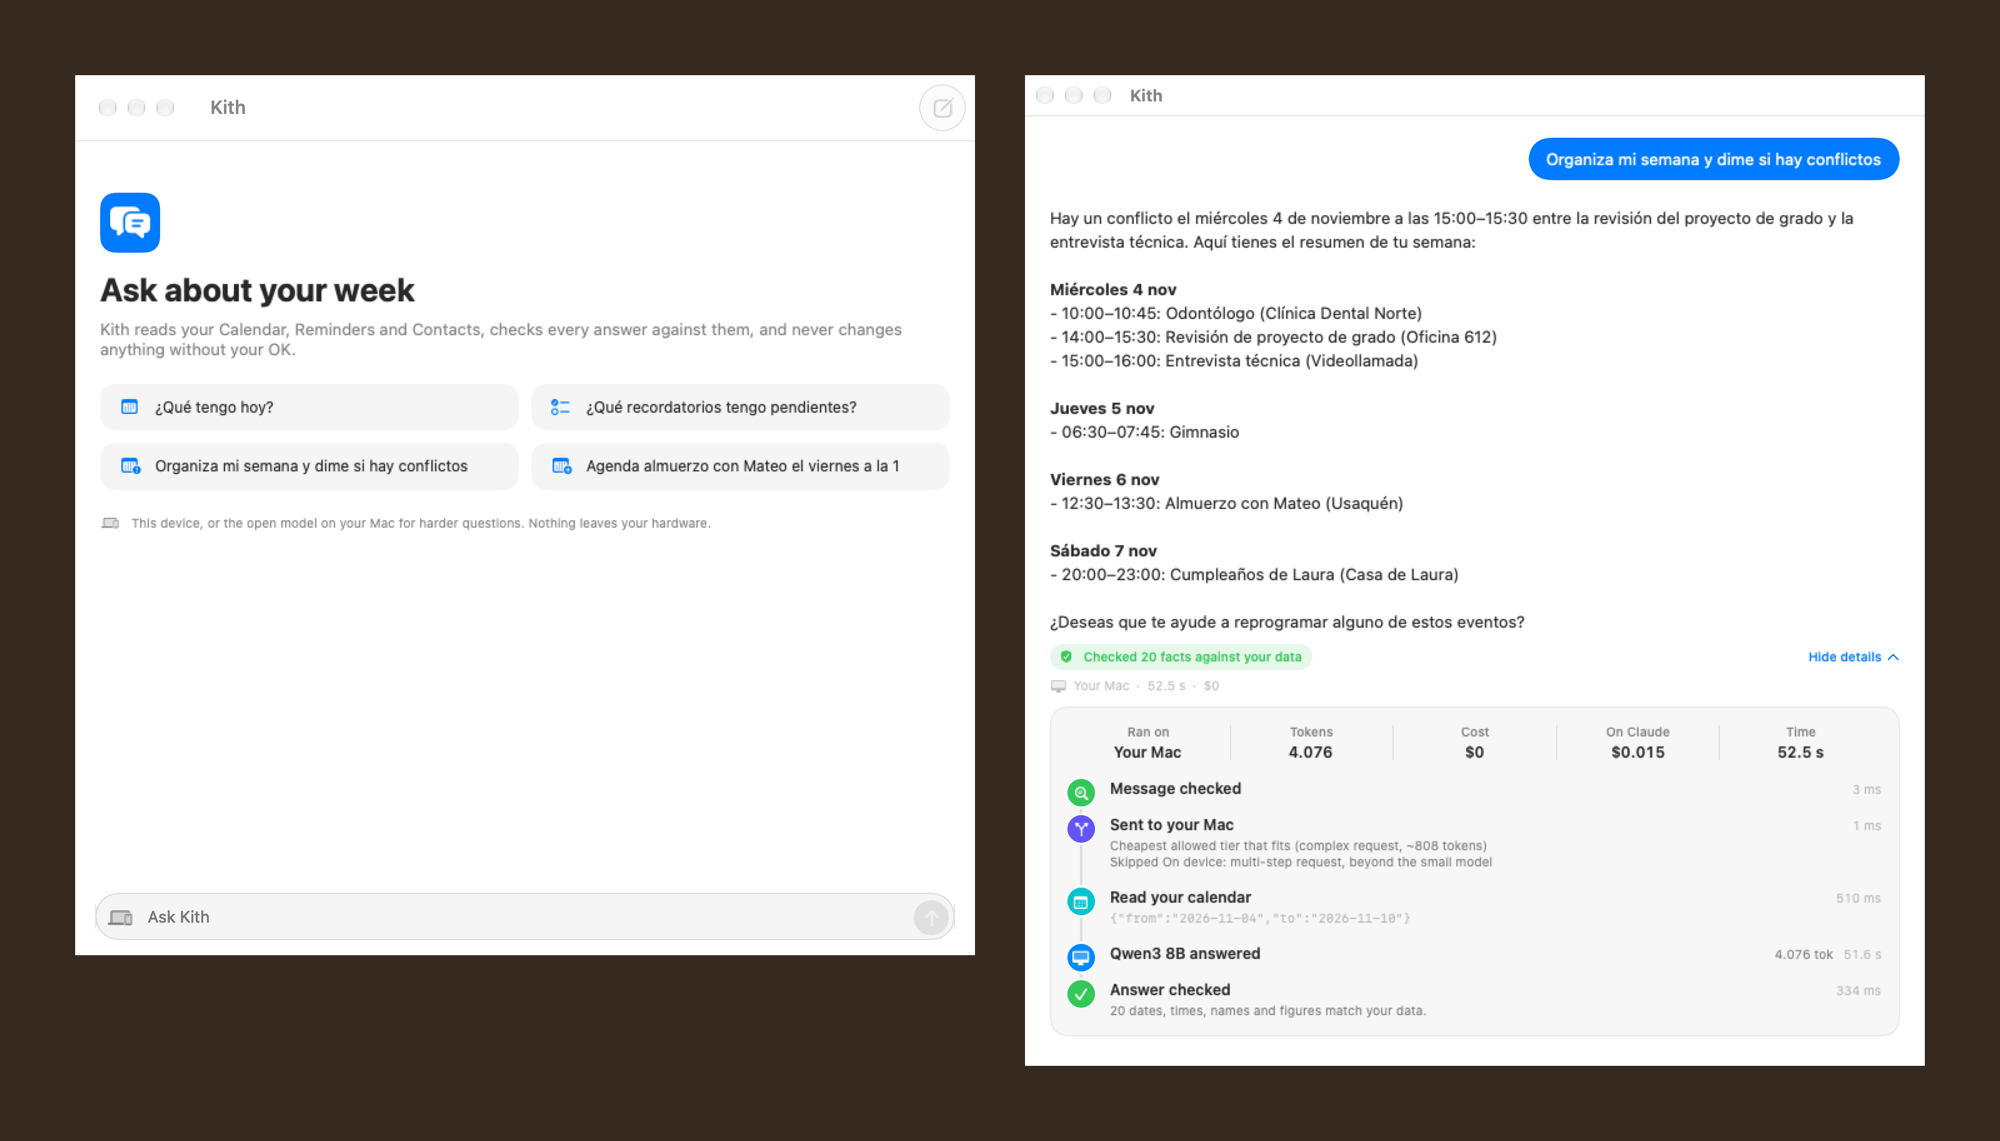
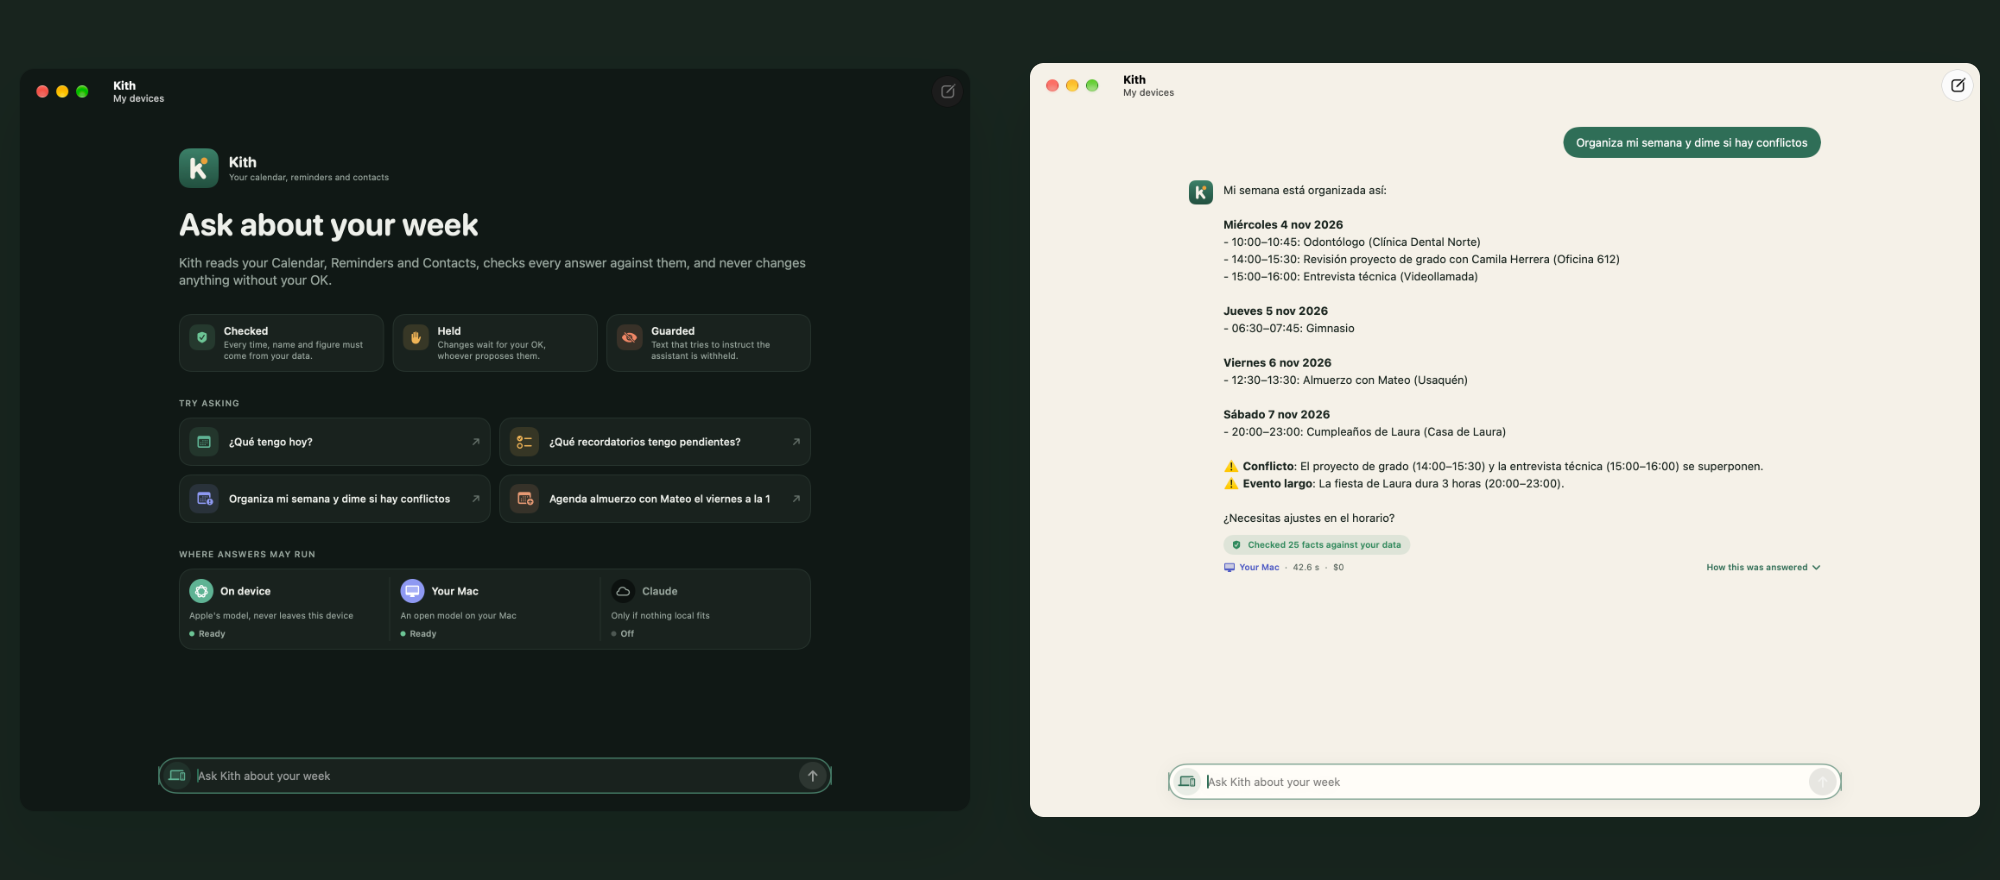
New Kith pictures from its redesign, and deep-link fixes
- Kith screenshots replaced with real captures of the redesigned app (light
  and dark), shown on backdrops in Kith's palette; captions match what is on
  screen
- Kith's monitor in the room shows the 4:3 confirmation screen
- Kith's case study gains the design system as a step
- Opening /#project jumps straight to the room, and the chapter header hides
  while a panel is open

diff --git a/lib/content.ts b/lib/content.ts
@@ -81,6 +81,10 @@ export const projects: Project[] = [
         body: "A proposed event is checked against the day and clock times in the message before it is held. Asked for lunch “a la 1”, the on-device model proposed 12:00; the gate refused it, the request moved to Qwen, and the 13:00 event waited for confirmation.",
       },
       {
+        title: "A design where every colour means one thing",
+        body: "Its own mark, a k waving toward an amber dot, and a palette in light and dark: moss for Kith and on-device answers, leaf for checked, amber for waiting for your OK, coral for stopped, and one colour for each place an answer can run, the same in the footer, the trace and the home screen.",
+      },
+      {
         title: "An answer that says how far to trust it",
         body: "Under every answer, one line in plain words: how many facts were checked against your data, whether suspicious text was withheld, whether a change waits for you, plus where it ran, how long it took and what it cost. \u201cHow this was answered\u201d opens the trace as a timeline. Local runs cost $0, shown next to what the same tokens would cost on Claude.",
       },
@@ -97,12 +101,12 @@ export const projects: Project[] = [
       "Mutation check: with the write-intent rule off, red-team drops to 7/10, so the suites notice a missing defense",
       "83 tests and three eval suites that run on Linux CI in about 3 seconds",
     ],
-    stack: ["Swift", "SwiftUI", "Foundation Models", "EventKit", "App Intents", "MCP", "Ollama", "Claude API"],
+    stack: ["Swift", "SwiftUI", "Foundation Models", "EventKit", "App Intents", "MCP", "Ollama", "Claude API", "Design system"],
     link: { label: "github.com/DanielDiab/Kith", href: "https://github.com/DanielDiab/Kith" },
-    image: { src: "/img/kith-today.png", w: 2000, h: 1112, alt: "“¿Qué tengo hoy?” answered on the device in 7.7 s for $0, with 10 facts checked and its timeline open; on the right, the same question with a poisoned invite planted, its title withheld by the data guard" },
+    image: { src: "/img/kith-today.png", w: 2000, h: 880, alt: "“¿Qué tengo hoy?” answered on the device in 7.3 s for $0, with 10 facts checked and its timeline open; on the right, in dark mode, the same question with a poisoned invite planted, its title withheld by the data guard" },
     gallery: [
-      { src: "/img/kith-held.png", w: 2000, h: 1191, alt: "Asked for lunch with Mateo on Friday “a la 1”, the on-device model proposed 12:00. The gate refused it, the request moved to Qwen on the Mac, and the 13:00 event waits for confirmation" },
-      { src: "/img/kith-week.png", w: 2000, h: 1141, alt: "The welcome screen, with suggestions and where answers may run; Qwen on the Mac plans the week, finds the 15:00 overlap and checks 20 facts against the calendar" },
+      { src: "/img/kith-held.png", w: 2000, h: 1500, alt: "Asked for lunch with Mateo on Friday “a la 1”, the on-device model proposed 12:00. The gate refused it, the request moved up to Qwen on the Mac, and the 13:00 event waits for confirmation" },
+      { src: "/img/kith-week.png", w: 2000, h: 880, alt: "The home screen in dark mode, with Kith's promises, suggestions and where answers may run; Qwen on the Mac plans the week, finds the 14:00–15:30 and 15:00 overlap and checks 25 facts against the calendar" },
     ],
     keywords: ["swift", "swiftui", "ios", "macos", "iphone", "mac", "apple", "on-device", "foundation models", "eventkit", "calendar", "reminders", "contacts", "siri", "app intents", "agents", "mcp", "guardrails", "prompt injection", "privacy", "local", "ollama", "routing", "evals", "red team", "calendario", "privacidad"],
   },

diff --git a/app/page.tsx b/app/page.tsx
@@ -13,6 +13,8 @@ import { getRepos } from "@/lib/github";
 const ROOM = ["chromatic", "kith", "charter", "stochastic", "paco", "agent-platform"];
 // Terminal screenshots read as blank at monitor size, so Charter shows its drawing on the screen.
 const DRAWN = new Set(["charter"]);
+// A 4:3 picture fills a monitor; Kith's confirmation screen is exactly that shape.
+const SCREEN: Record<string, string> = { kith: "/img/kith-held.png" };
 
 const month = (iso: string) => new Date(iso).toLocaleDateString("en-US", { month: "short", year: "numeric" });
 
@@ -22,7 +24,7 @@ export default async function Home() {
   const exhibits: Exhibit[] = ROOM.map((slug) => {
     const i = projects.findIndex((p) => p.slug === slug);
     const p = projects[i];
-    return { slug, name: p.name, index: String(i + 1).padStart(2, "0"), src: DRAWN.has(slug) ? undefined : p.image?.src, svgId: p.image && !DRAWN.has(slug) ? undefined : `still-${slug}`, bg: STILL_BG[slug] ?? "#1b1b1b" };
+    return { slug, name: p.name, index: String(i + 1).padStart(2, "0"), src: DRAWN.has(slug) ? undefined : SCREEN[slug] ?? p.image?.src, svgId: p.image && !DRAWN.has(slug) ? undefined : `still-${slug}`, bg: STILL_BG[slug] ?? "#1b1b1b" };
   }).filter((e) => e.name);
 
   const work = (

diff --git a/components/Shell.tsx b/components/Shell.tsx
@@ -109,11 +109,13 @@ export default function Shell({
   }, [valid]);
 
   useEffect(() => {
-    const fromHash = () => {
+    // On load jump straight there; later hash changes glide.
+    const fromHash = (e?: Event) => {
+      const behavior: ScrollBehavior = e ? "smooth" : "instant";
       const h = window.location.hash.slice(1);
-      if (PLACES.includes(h)) { setOpen(null); document.getElementById(h)?.scrollIntoView({ behavior: "smooth" }); return; }
+      if (PLACES.includes(h)) { setOpen(null); document.getElementById(h)?.scrollIntoView({ behavior }); return; }
       setOpen(h && valid(h) ? h : null);
-      if (h && valid(h) && h !== "what-i-do" && h !== "contact") roomRef.current?.scrollIntoView();
+      if (h && valid(h) && h !== "what-i-do" && h !== "contact") roomRef.current?.scrollIntoView({ behavior });
     };
     fromHash();
     window.addEventListener("hashchange", fromHash);

diff --git a/app/experience.css b/app/experience.css
@@ -28,7 +28,7 @@ html { scroll-behavior: smooth; }
 .js.loaded .sh { animation: shin 0.9s var(--ease) both 0.5s; }
 @keyframes shin { from { transform: translateY(-100%); } }
 .sh.solid { background: var(--ink); padding-top: 10px; padding-bottom: 10px; }
-.sh.away { transform: translateY(-110%); }
+.sh.away, body:has(.app.has-panel) .sh { transform: translateY(-110%); }
 .sh-mark { margin-right: auto; }
 .sh-nav { display: flex; gap: 2px; }
 .sh-nav a { display: flex; align-items: baseline; gap: 8px; padding: 9px 13px; text-decoration: none; font-weight: 600; font-size: var(--s-small); transition: background-color 0.25s ease, color 0.25s ease; }
